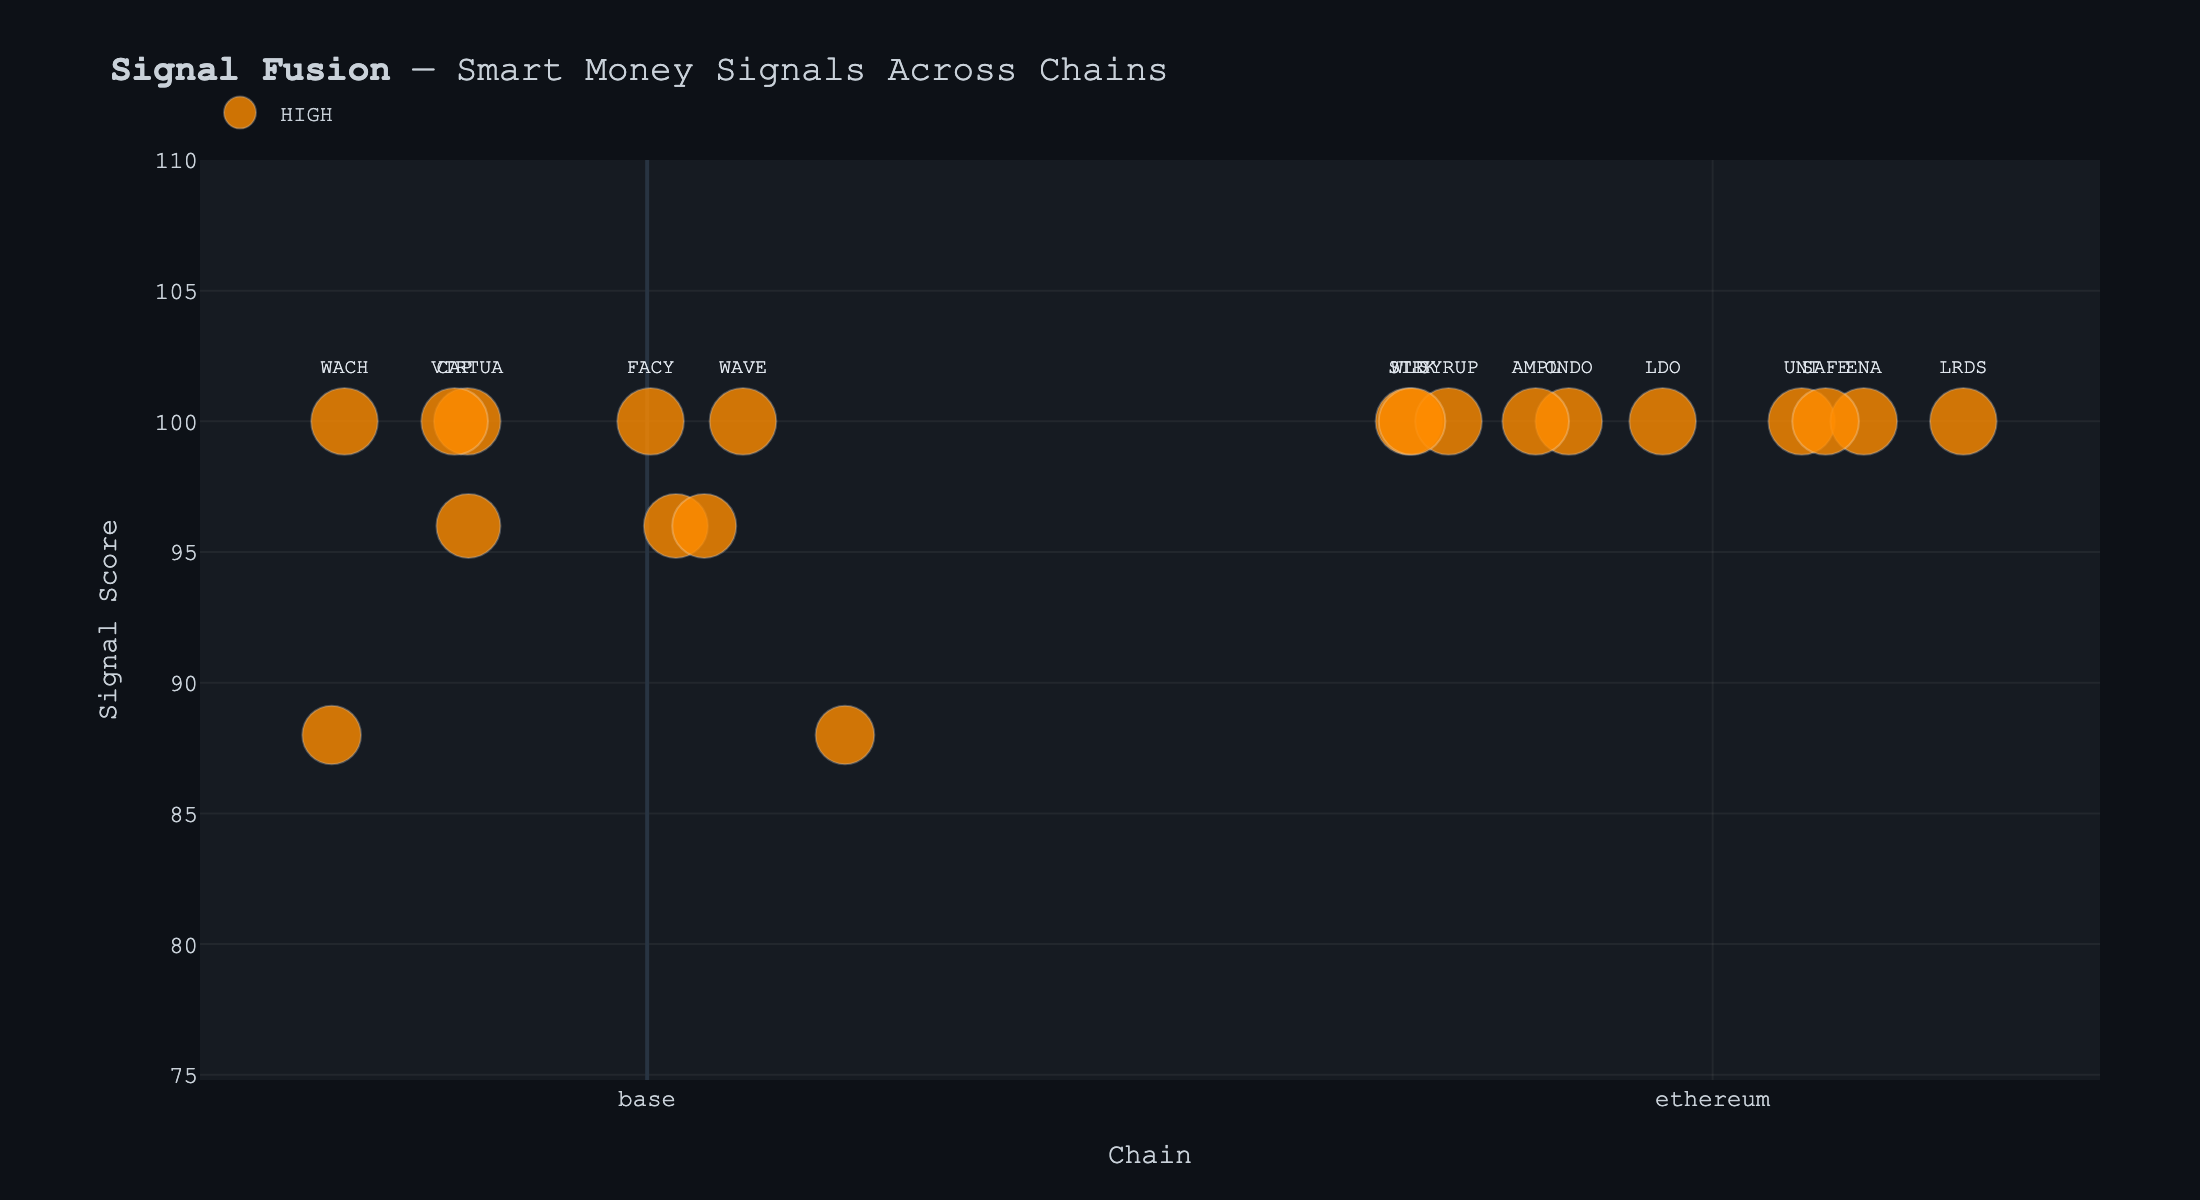
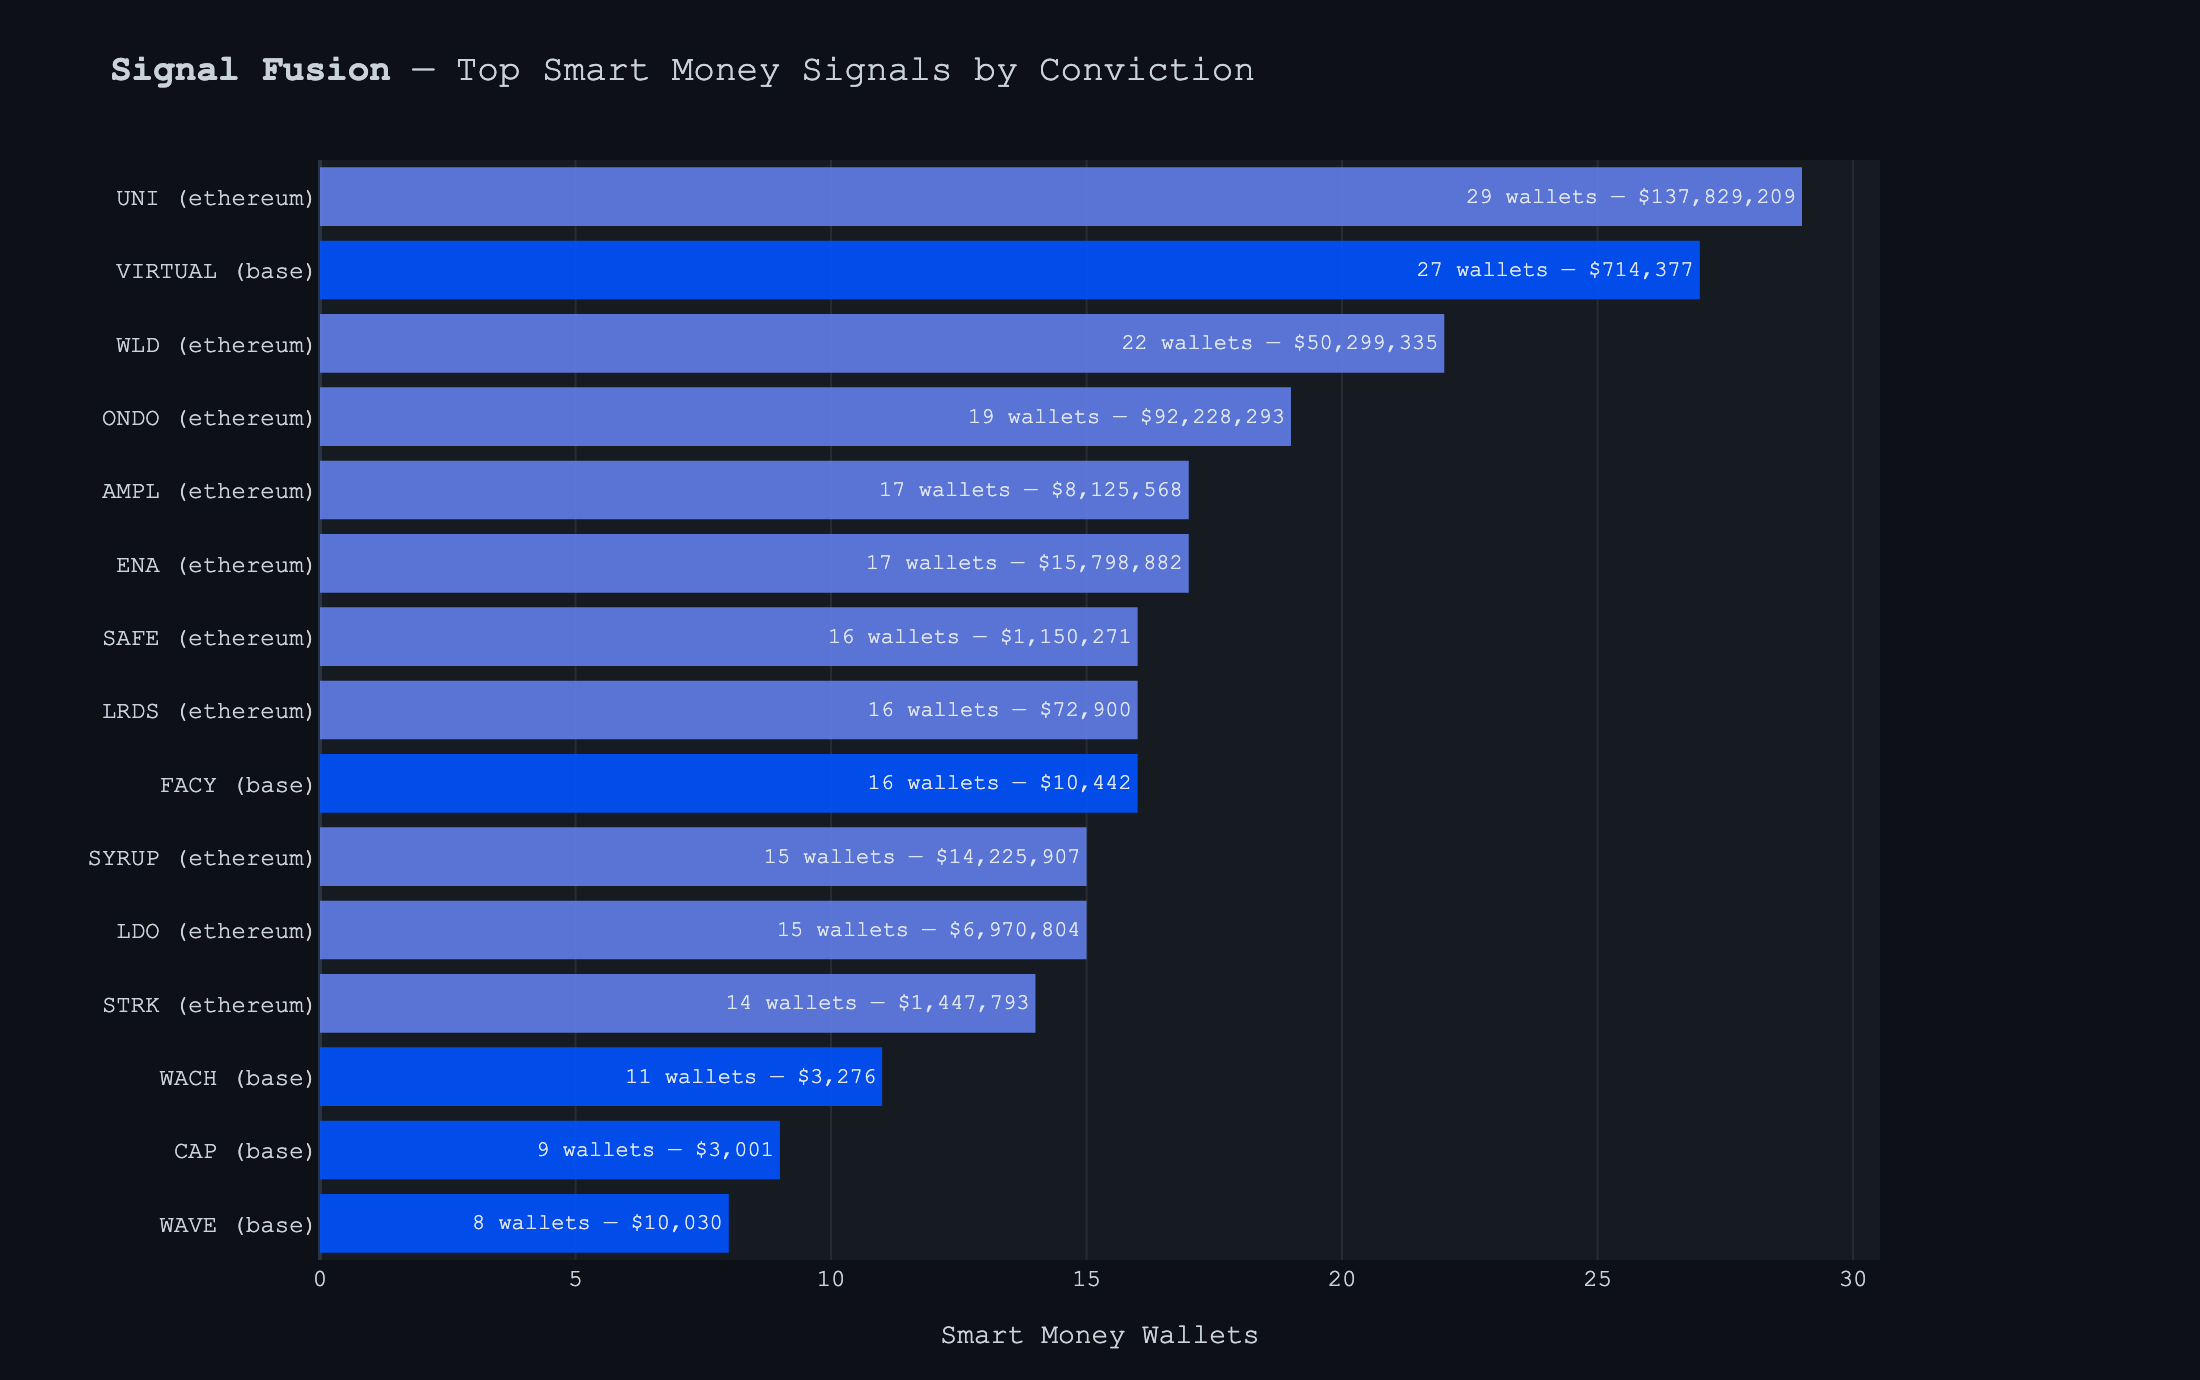
fix: redesign signal timeline chart - horizontal bars ranked by conviction
- Replaced cluttered scatter plot with clean horizontal bar chart
- Sorted by wallet count descending (most conviction at top)
- Color-coded by chain (ethereum blue, base darker blue, etc.)
- Labels show wallet count + USD value inline
- Much more readable for presentations and submissions

diff --git a/charts.py b/charts.py
@@ -117,76 +117,89 @@ def flow_heatmap(data: dict[str, dict[str, float]]) -> str:
 
 def signal_timeline(signals: list[Signal]) -> str:
     """
-    Generate a scatter plot of signals: chain (x) vs score (y), sized by
-    conviction/value. Shows the signal landscape across chains at a glance.
+    Generate a horizontal bar chart of top signals ranked by conviction
+    (wallet count extracted from summary). Clean, readable layout.
     """
     if not signals:
         log.warning("No signals for timeline")
         return ""
 
+    import re
+
     fig = go.Figure()
 
-    # Jitter x-positions within each chain to avoid overlap
-    import random
-    random.seed(42)
+    # Extract wallet count from summary for sizing, sort descending
+    def _extract_wallets(s):
+        m = re.search(r"(\d+)\s*smart money wallet", s.summary)
+        return int(m.group(1)) if m else 0
 
-    chain_set = sorted(set(s.chain for s in signals))
-    chain_idx = {c: i for i, c in enumerate(chain_set)}
+    def _extract_usd(s):
+        m = re.search(r"\$([0-9,]+)", s.summary)
+        return float(m.group(1).replace(",", "")) if m else 0
 
-    for severity in [Severity.CRITICAL, Severity.HIGH, Severity.MEDIUM, Severity.LOW]:
-        sev_signals = [s for s in signals if s.severity == severity]
-        if not sev_signals:
-            continue
+    # Sort by wallet count descending, take top 15
+    ranked = sorted(signals, key=_extract_wallets, reverse=True)[:15]
+    ranked.reverse()  # bottom-to-top for horizontal bars
 
-        x_vals = [chain_idx[s.chain] + random.uniform(-0.3, 0.3) for s in sev_signals]
+    chain_colors = {
+        "ethereum": "#627EEA",
+        "base": "#0052FF",
+        "solana": "#9945FF",
+        "arbitrum": "#28A0F0",
+        "bnb": "#F0B90B",
+        "polygon": "#8247E5",
+        "optimism": "#FF0420",
+        "avalanche": "#E84142",
+    }
 
-        fig.add_trace(go.Scatter(
-            x=x_vals,
-            y=[s.score for s in sev_signals],
-            mode="markers+text",
-            name=severity.value.upper(),
-            marker=dict(
-                color=SEVERITY_COLORS[severity],
-                size=[max(12, min(s.score / 3, 40)) for s in sev_signals],
-                opacity=0.8,
-                line=dict(width=1, color="rgba(255,255,255,0.3)"),
-            ),
-            text=[s.token[:6] if s.score >= sorted([x.score for x in signals], reverse=True)[min(7, len(signals)-1)] else "" 
-                 for s in sev_signals],
-            textposition="top center",
-            textfont=dict(size=10, color="#E0E6ED"),
-            hovertext=[
-                f"<b>{s.token}</b> ({s.chain})<br>"
-                f"Type: {s.type}<br>"
-                f"Score: {s.score:.0f}<br>"
-                f"{s.summary[:80]}"
-                for s in sev_signals
-            ],
-            hoverinfo="text",
-        ))
+    tokens = [f"{s.token} ({s.chain})" for s in ranked]
+    wallets = [_extract_wallets(s) for s in ranked]
+    colors = [chain_colors.get(s.chain, "#4ECDC4") for s in ranked]
+    usd_vals = [_extract_usd(s) for s in ranked]
+
+    fig.add_trace(go.Bar(
+        y=tokens,
+        x=wallets,
+        orientation="h",
+        marker=dict(
+            color=colors,
+            line=dict(width=0),
+            opacity=0.9,
+        ),
+        text=[f"  {w} wallets — ${u:,.0f}" for w, u in zip(wallets, usd_vals)],
+        textposition="inside",
+        insidetextanchor="end",
+        textfont=dict(size=11, color="#E0E6ED"),
+        hovertext=[
+            f"<b>{s.token}</b> ({s.chain})<br>"
+            f"Wallets: {_extract_wallets(s)}<br>"
+            f"Score: {s.score:.0f}<br>"
+            f"{s.summary[:80]}"
+            for s in ranked
+        ],
+        hoverinfo="text",
+    ))
 
     fig.update_layout(
         **LAYOUT_DEFAULTS,
         title=dict(
-            text="<b>Signal Fusion</b> — Smart Money Signals Across Chains",
+            text="<b>Signal Fusion</b> — Top Smart Money Signals by Conviction",
             font=dict(size=18),
         ),
         xaxis=dict(
-            title="Chain",
-            tickvals=list(range(len(chain_set))),
-            ticktext=chain_set,
+            title="Smart Money Wallets",
             showgrid=True,
-            gridcolor="rgba(150,150,150,0.1)",
+            gridcolor="rgba(150,150,150,0.15)",
         ),
-        yaxis=dict(title="Signal Score",
-                    range=[max(0, min(s.score for s in signals) * 0.85),
-                           max(s.score for s in signals) * 1.1],
-                    showgrid=True, gridcolor="rgba(150,150,150,0.1)"),
+        yaxis=dict(
+            showgrid=False,
+            tickfont=dict(size=12),
+        ),
         width=1100,
-        height=600,
-        showlegend=True,
-        legend=dict(orientation="h", yanchor="bottom", y=1.02, font=dict(size=11)),
+        height=max(400, len(ranked) * 38 + 120),
+        showlegend=False,
     )
+    fig.update_layout(margin=dict(l=160, r=160, t=80, b=60))
 
     return _save_chart(fig, "signal_timeline")
 
